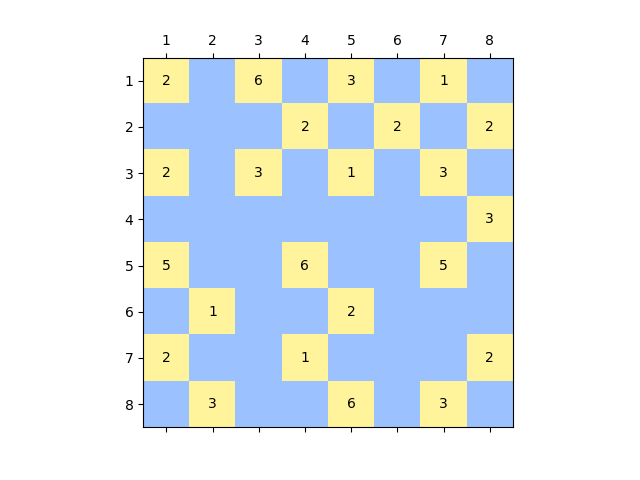
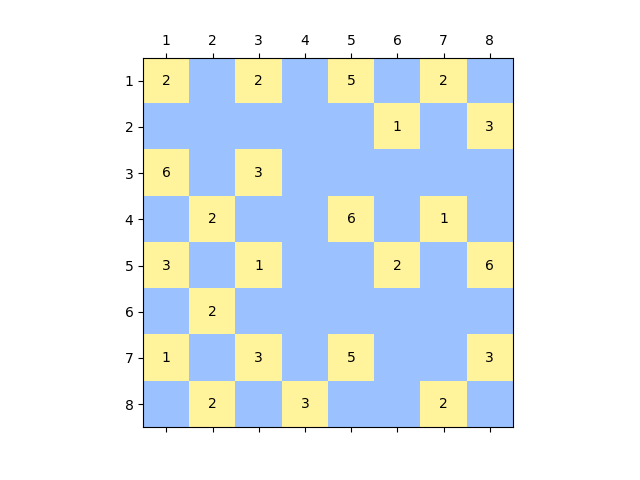
Finally got orientation correct...

diff --git a/Hashi/draw.py b/Hashi/draw.py
@@ -73,7 +73,7 @@ def draw_puzzles():
         a = np.zeros((size, size))
 
         for cell in board:
-            a[cell[1] - 1][cell[0] - 1] = cell[2]
+            a[cell[0] - 1][cell[1] - 1] = cell[2]
 
         fig, ax = plt.subplots()
 
